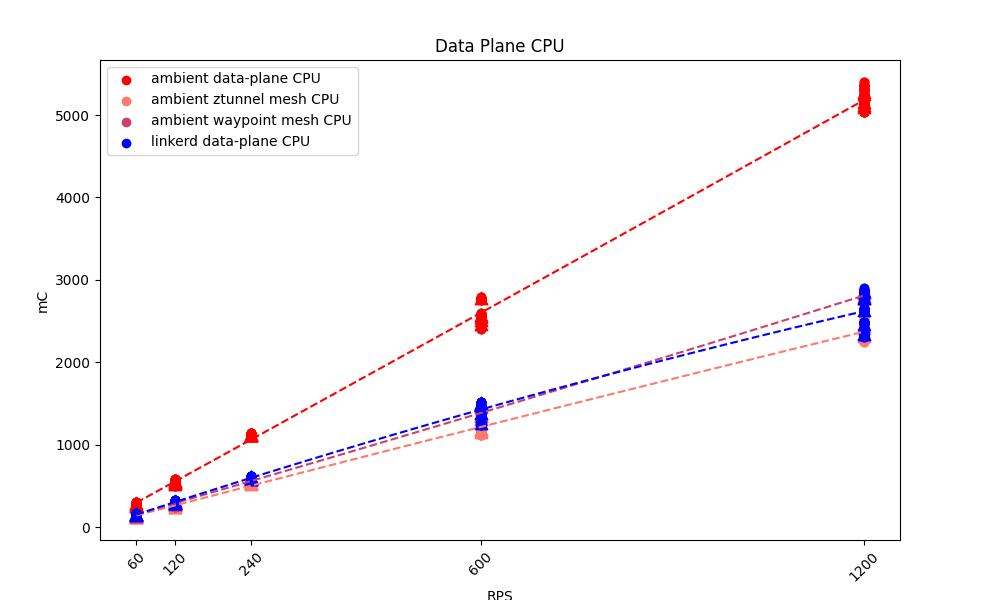
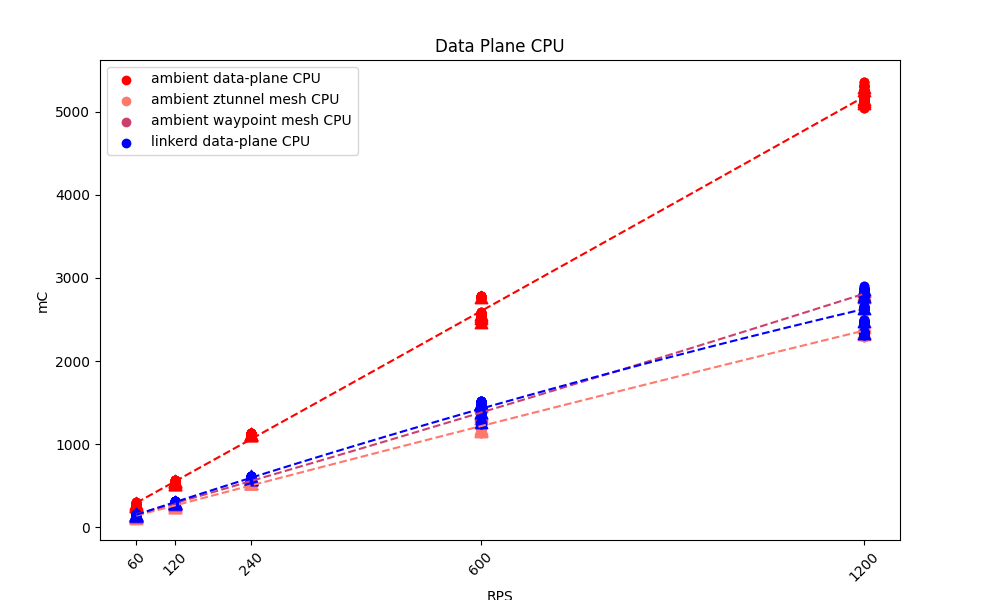
Switch to one sigma for data cleaning (it makes the graphs a little easier to read without changing overall results).

diff --git a/tools/plot.py b/tools/plot.py
@@ -385,7 +385,7 @@ class CorrelatedMetrics:
                         stddev = np.std(dataset)
 
                         # ...and filter out outliers.
-                        filtered_dataset = dataset[np.abs(dataset - mean) <= 2 * stddev]
+                        filtered_dataset = dataset[np.abs(dataset - mean) <= 1 * stddev]
 
                         # print(f"Run {run_id} mesh {mesh} fieldname {fieldname}: {len(native_data)} raw samples")
                         # print(native_data)
